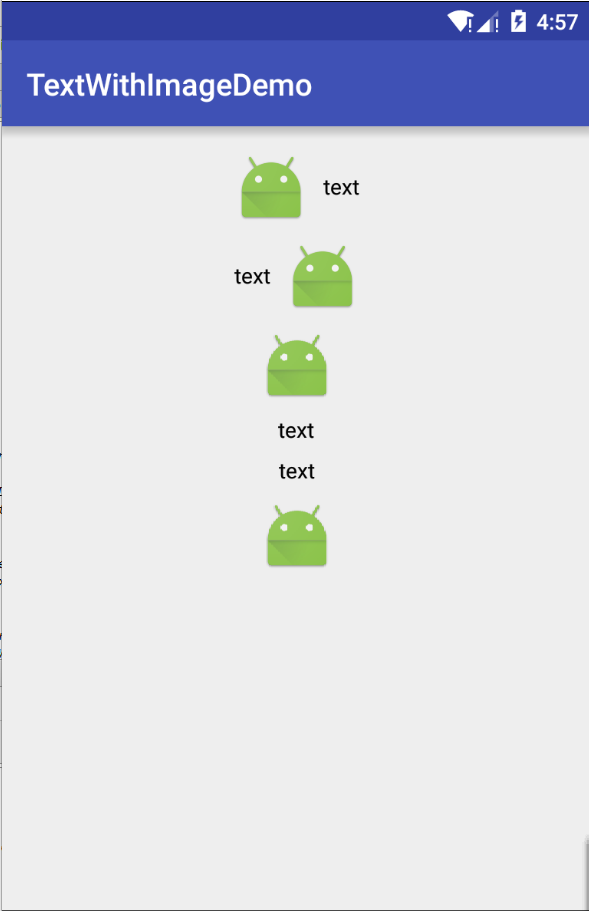
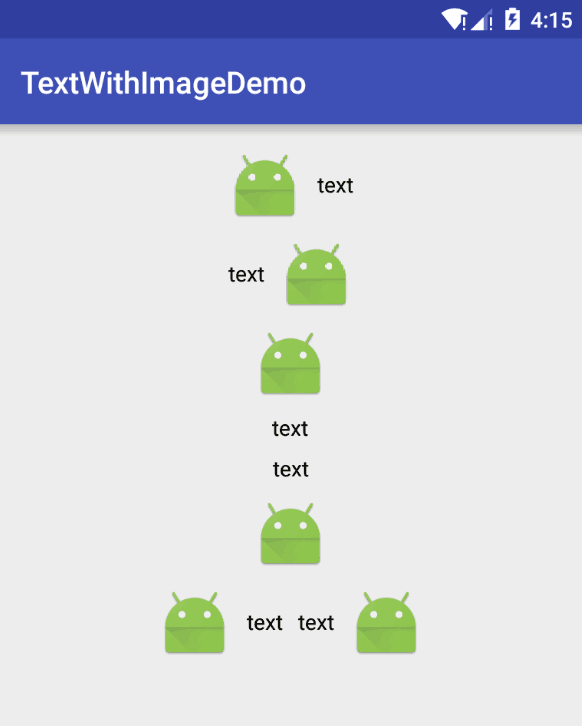
添加新的drawable组合类

diff --git a/textwithimagedrawable/src/main/java/wu/seal/textwithimagedrawable/BaseCombinedDrawable.java b/textwithimagedrawable/src/main/java/wu/seal/textwithimagedrawable/BaseCombinedDrawable.java
@@ -1,0 +1,128 @@
+package wu.seal.textwithimagedrawable;
+
+import android.graphics.Canvas;
+import android.graphics.ColorFilter;
+import android.graphics.drawable.Drawable;
+
+/**
+ * 两个drawable组合成的一个drawable
+ * drawable one 会优先放在最前面进行绘制(如果两个drawable的相对偏移值为0则效果如同FrameLayout)
+ * Created By: Seal.Wu
+ * Date: 2016/7/12
+ * Time: 14:36
+ */
+public class BaseCombinedDrawable extends Drawable {
+
+    private Drawable one;
+    private Drawable two;
+
+    /**
+     * two相对one的相对x轴的距离
+     */
+    private int relatedX;
+
+
+    /**
+     * two相对One的相对y轴的距离
+     */
+    private int relatedY;
+
+    private int paddingLeft, paddingRight, paddingTop, paddingBottom;
+
+    public BaseCombinedDrawable(Drawable one, Drawable two) {
+        this.one = one;
+        this.two = two;
+        if (one == null || two == null) {
+            throw new IllegalArgumentException("drawable one or two can't be null!");
+        }
+    }
+
+
+    /**
+     * 设置drawable two 左上角相对于 drawable one左上角 的相对偏移位置
+     * 偏移以drawable one 的左上角为起始点
+     *
+     * @param relatedX x轴的相对偏移
+     * @param relatedY y轴的相对偏移值
+     */
+    public void setRelatedPosition(int relatedX, int relatedY) {
+        this.relatedX = relatedX;
+        this.relatedY = relatedY;
+    }
+
+
+    /**
+     * 设置组合后的新的drawable的四个Padding值
+     *
+     * @param paddingLeft   左边填充距离
+     * @param paddingTop    上边填充距离
+     * @param paddingRight  右边填充距离
+     * @param paddingBottom 下边填充距离
+     */
+    public void setPadding(int paddingLeft, int paddingTop, int paddingRight, int paddingBottom) {
+        this.paddingLeft = paddingLeft;
+        this.paddingTop = paddingTop;
+        this.paddingRight = paddingRight;
+        this.paddingBottom = paddingBottom;
+    }
+
+    @Override
+    public void draw(Canvas canvas) {
+        one.setBounds(0, 0, one.getIntrinsicWidth(), one.getIntrinsicHeight());
+        two.setBounds(0, 0, two.getIntrinsicWidth(), two.getIntrinsicHeight());
+        canvas.translate(paddingLeft, paddingTop);
+        canvas.save();
+        canvas.translate(relatedX < 0 ? Math.abs(relatedX) : 0, relatedY < 0 ? Math.abs(relatedY) : 0);
+        one.draw(canvas);
+        canvas.restore();
+        canvas.save();
+        canvas.translate(relatedX > 0 ? Math.abs(relatedX) : 0, relatedY > 0 ? Math.abs(relatedY) : 0);
+        two.draw(canvas);
+        canvas.restore();
+    }
+
+    @Override
+    public int getIntrinsicWidth() {
+        int width = paddingLeft + paddingRight;
+        width = width + one.getIntrinsicWidth();
+        if (relatedX < 0) {
+            width += Math.abs(relatedX);
+        } else {
+            final int del = relatedX + two.getIntrinsicWidth() - one.getIntrinsicWidth();
+            width += del > 0 ? del : 0;
+        }
+        return width;
+    }
+
+    @Override
+    public int getIntrinsicHeight() {
+
+        int height = paddingTop + paddingBottom;
+        height += one.getIntrinsicHeight();
+        if (relatedY < 0) {
+            height += Math.abs(relatedY);
+        } else {
+            final int del = relatedY + two.getIntrinsicHeight() - one.getIntrinsicHeight();
+            height += del > 0 ? del : 0;
+        }
+
+        return height;
+    }
+
+    @Override
+    public void setAlpha(int alpha) {
+        one.setAlpha(alpha);
+        two.setAlpha(alpha);
+    }
+
+    @Override
+    public void setColorFilter(ColorFilter colorFilter) {
+        one.setColorFilter(colorFilter);
+        two.setColorFilter(colorFilter);
+    }
+
+    @Override
+    public int getOpacity() {
+        return one.getOpacity();
+    }
+}

diff --git a/app/src/main/java/wu/seal/textwithimagedemo/MainActivity.java b/app/src/main/java/wu/seal/textwithimagedemo/MainActivity.java
@@ -5,12 +5,13 @@ import android.os.Bundle;
 import android.util.TypedValue;
 import android.widget.ImageView;
 
+import wu.seal.textwithimagedrawable.BaseCombinedDrawable;
 import wu.seal.textwithimagedrawable.TextWithImageDrawable;
 
 
 public class MainActivity extends AppCompatActivity {
 
-    ImageView left, right, top, bottom;
+    ImageView left, right, top, bottom,combine;
 
     String mText = "text";
 
@@ -22,6 +23,7 @@ public class MainActivity extends AppCompatActivity {
         right = (ImageView) findViewById(R.id.iv_right);
         top = (ImageView) findViewById(R.id.iv_top);
         bottom = (ImageView) findViewById(R.id.iv_bottom);
+        combine = (ImageView) findViewById(R.id.iv_combine);
 
         /**
          * 图像和文字之间的距离
@@ -43,6 +45,10 @@ public class MainActivity extends AppCompatActivity {
         TextWithImageDrawable drawableBottom = new TextWithImageDrawable(this);
         initDrawable(drawablePadding, drawableBottom, mText, TextWithImageDrawable.Position.BOTTOM);
         bottom.setImageDrawable(drawableBottom);
+
+        BaseCombinedDrawable baseCombinedDrawable = new BaseCombinedDrawable(drawableLeft, drawableRight);
+        baseCombinedDrawable.setRelatedPosition(drawableLeft.getIntrinsicWidth() + drawablePadding, 0);
+        combine.setImageDrawable(baseCombinedDrawable);
     }
 
     private void initDrawable(int drawablePadding, TextWithImageDrawable drawable, String mText, TextWithImageDrawable.Position position) {

diff --git a/README.md b/README.md
@@ -5,6 +5,7 @@ An android drawable object which contains text and image
 
 ##使用步骤
 * 在app的构建文件build.gradle中的dependencies中加入下面的代码
+
  ```groove
  
    compile 'wu.seal:textwithimagedrawable:1.0.3'
@@ -130,6 +131,48 @@ An android drawable object which contains text and image
     }
 
 ```
+
+# BaseCombinedDrawable
+An android drawable object which contains two drawables
+一个组个drawable,能对两个drawable进行拼凑组合成一个新的drawable,两个drawable的位置可以灵活组合,基本能满足所有的drawable的定制,各种图文混排,你懂的
+
+##Api介绍
+
+```java
+
+     /**
+     * 设置drawable two 左上角相对于 drawable one左上角 的相对偏移位置
+     * 偏移以drawable one 的左上角为起始点
+     * drawable one 会优先放在最前面进行绘制(如果两个drawable的相对偏移值为0则效果如同FrameLayout)
+     *
+     * @param relatedX x轴的相对偏移
+     * @param relatedY y轴的相对偏移值
+     */
+     public void setRelatedPosition(int relatedX, int relatedY)
+    
+    
+    /**
+     * 设置组合后的新的drawable的四个Padding值
+     *
+     * @param paddingLeft   左边填充距离
+     * @param paddingTop    上边填充距离
+     * @param paddingRight  右边填充距离
+     * @param paddingBottom 下边填充距离
+     */
+     public void setPadding(int paddingLeft, int paddingTop, int paddingRight, int paddingBottom)
+    
+```
+
+##代码示例
+
+```java
+
+        BaseCombinedDrawable baseCombinedDrawable = new BaseCombinedDrawable(drawableLeft, drawableRight);
+        baseCombinedDrawable.setRelatedPosition(drawableLeft.getIntrinsicWidth() + drawablePadding, 0);
+        combine.setImageDrawable(baseCombinedDrawable);
+
+```
+
 
 ##效果图:
 <img src="https://github.com/wuseal/TextWithImageDrawable/blob/master/demo.png?raw=true" alt="alt text" >
